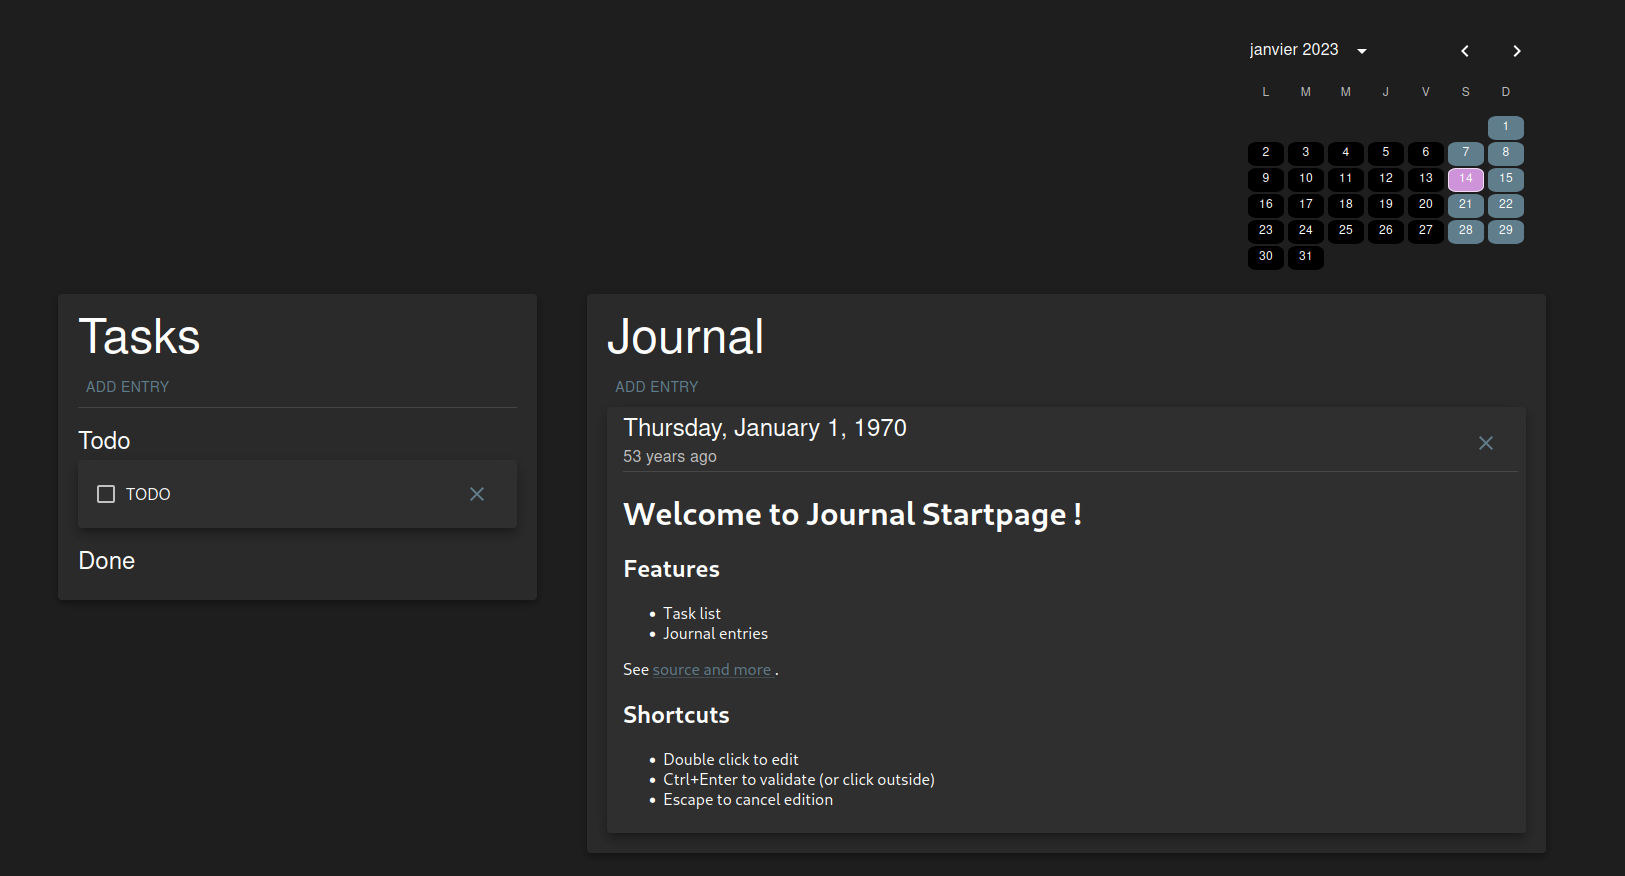
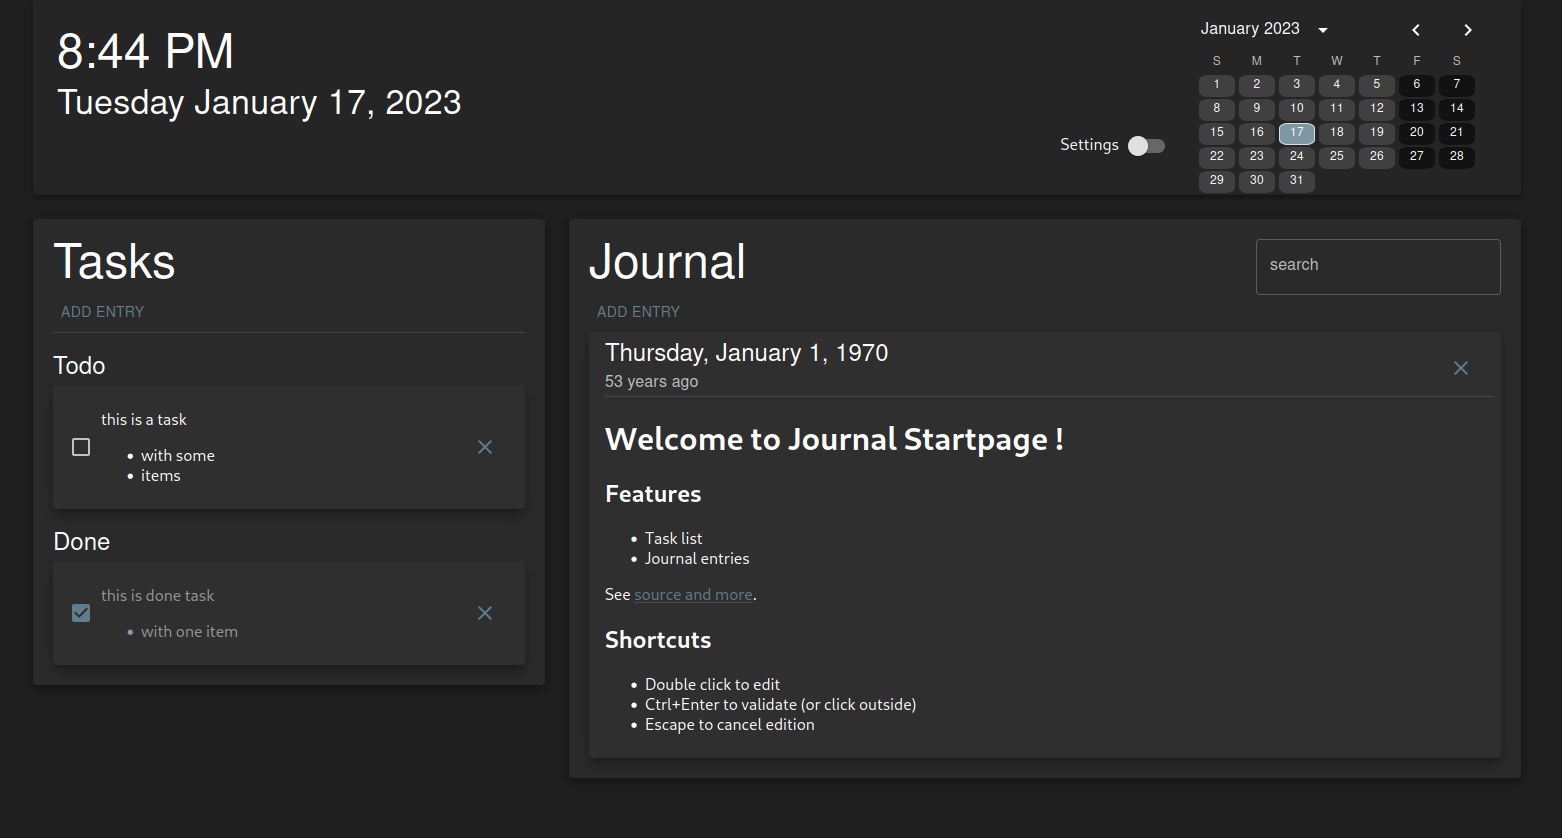
fix default settings, update screenshot

diff --git a/src/stores/settings.js b/src/stores/settings.js
@@ -3,8 +3,8 @@ import { persist } from 'zustand/middleware'
 import { TinyColor } from '@ctrl/tinycolor';
 
 const initValue = {
-  background: "black",
-  primaryColor: "#AAAAAA",
+  background: "rgb(18, 18, 18)",
+  primaryColor: "rgb(96, 125, 139)",
   secondaryColor: "#DD0033",
   mode: "dark",
   locale: "en",
